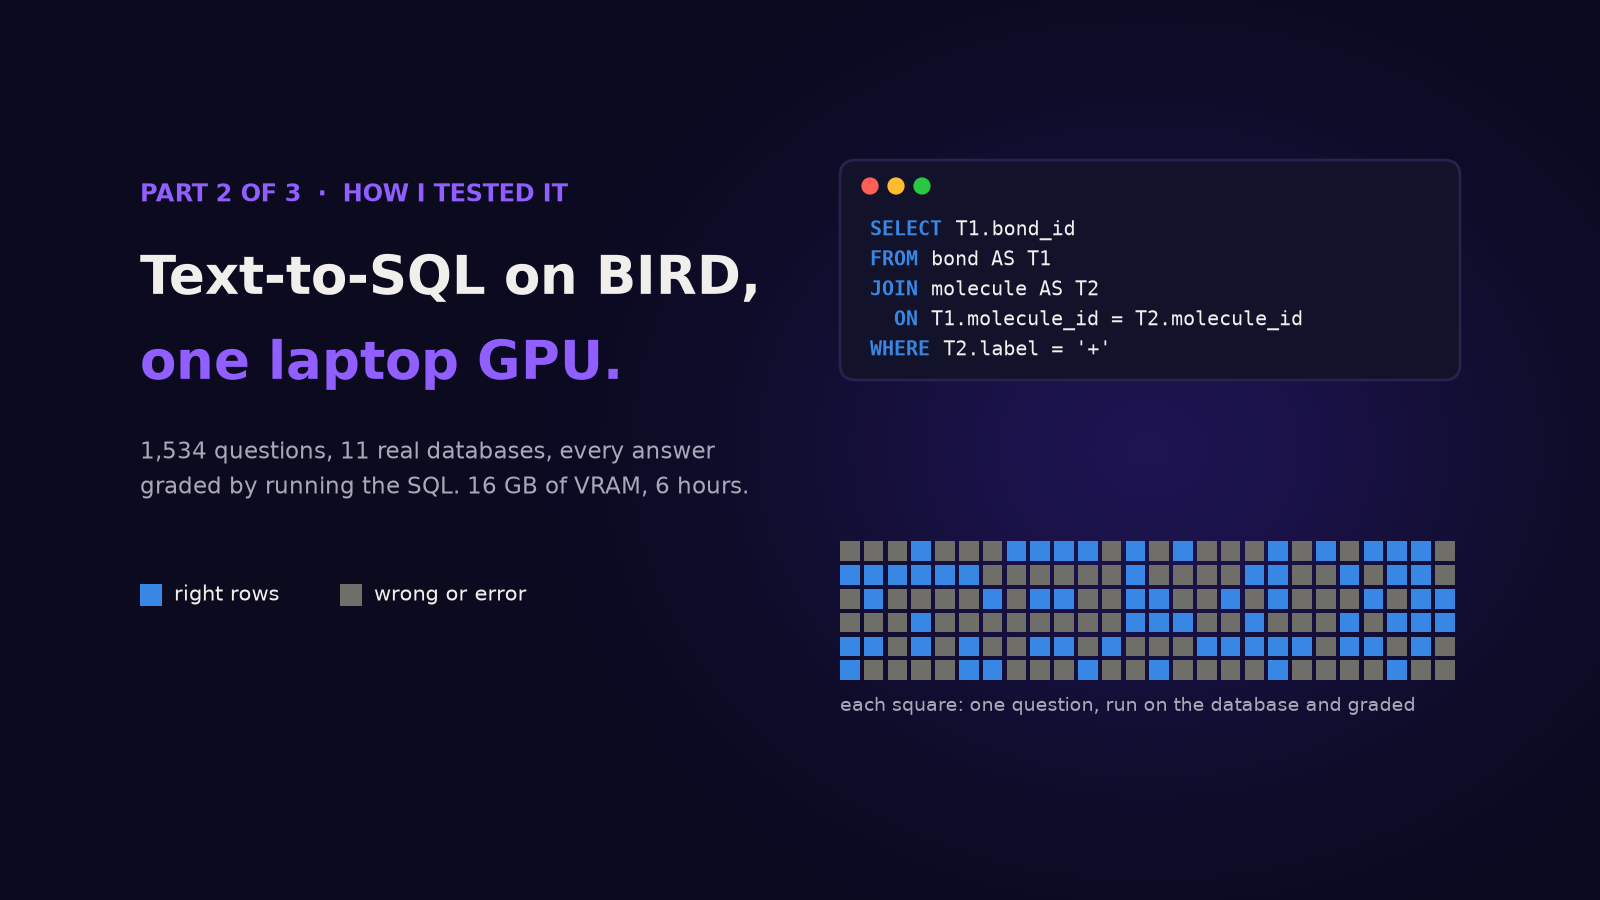
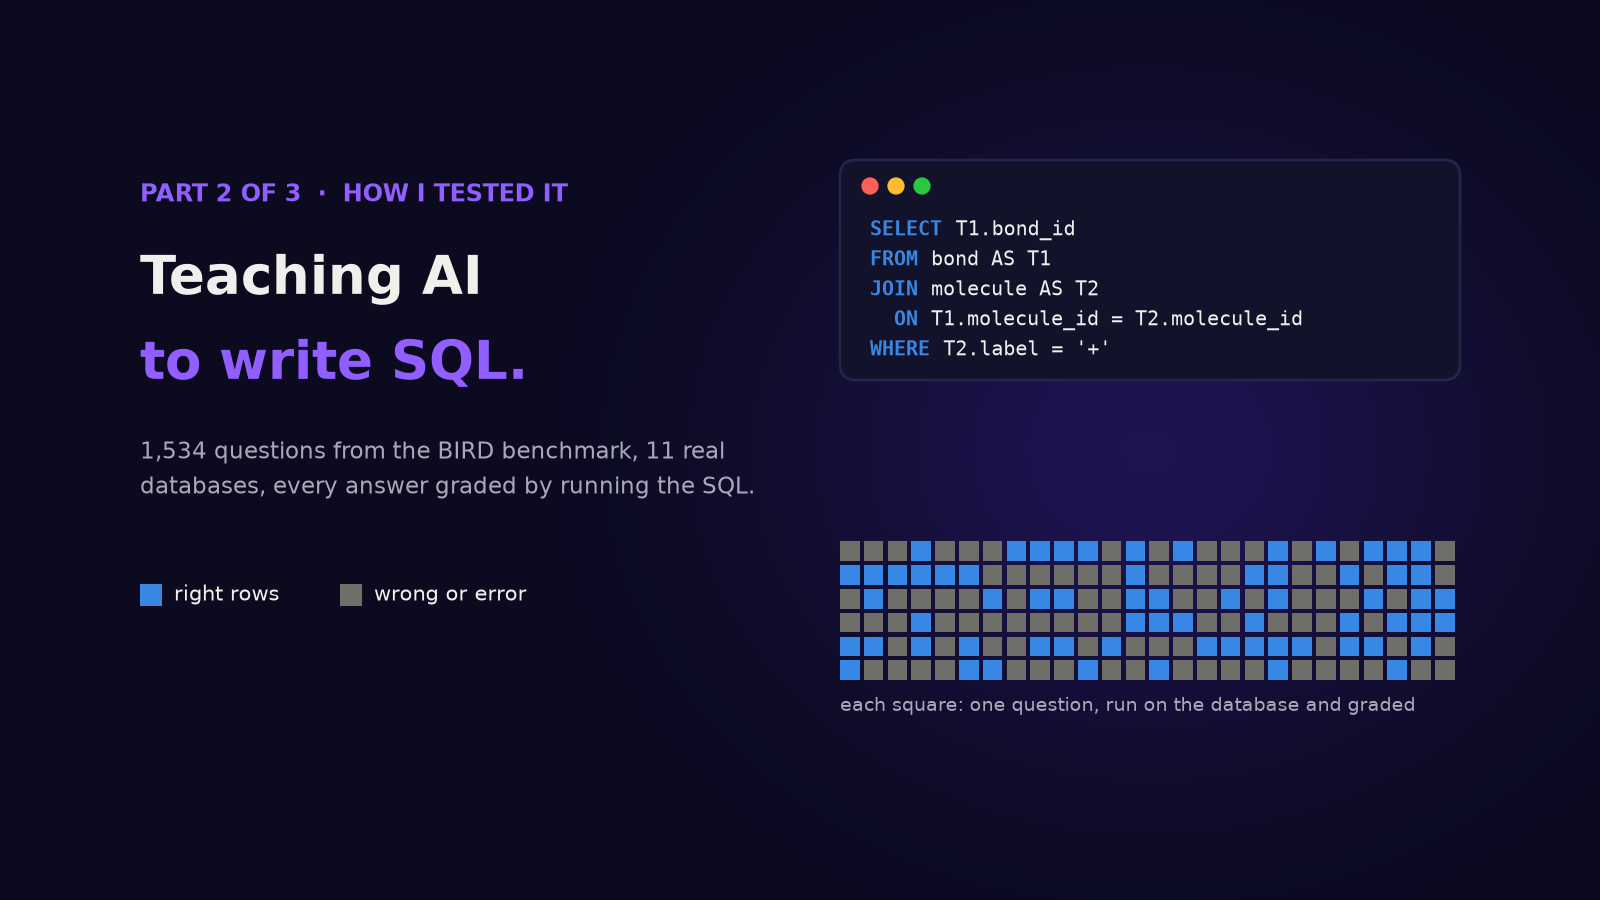
docs(blog): simplify fine-tuning series titles and drop laptop-GPU framing

Changed region(s): [[0.125, 0.28, 0.4688, 0.3422], [0.0938, 0.4667, 0.4688, 0.56], [0.0938, 0.3733, 0.375, 0.4356]]

diff --git a/frontend/src/constants/posts/finetuning_series_2_how.js b/frontend/src/constants/posts/finetuning_series_2_how.js
@@ -1,17 +1,17 @@
 const post = {
   id: "finetuning_series_2_how",
-  title: "How I tested them: text-to-SQL on BIRD with one laptop GPU",
+  title: "How I tested them: teaching AI to write SQL",
   date: "November 07, 2026",
   part: 2,
-  aiSummary: "Part 2 of the fine-tuning series walks through the full experiment: turning BIRD questions into prompts and training rows, grading SQL by running it in a read-only sandbox, and training full fine-tuning, LoRA, LoRA-FA, QLoRA and TinyLoRA under identical rules. It also covers the TinyLoRA GRPO loop with vLLM and the memory lessons that got the whole pipeline running in under 6 hours on a 16 GB laptop GPU.",
+  aiSummary: "Part 2 of the fine-tuning series walks through the full experiment: turning BIRD questions into prompts and training rows, grading SQL by running it in a read-only sandbox, and training full fine-tuning, LoRA, LoRA-FA, QLoRA and TinyLoRA under identical rules. It also covers the TinyLoRA GRPO loop with vLLM and the memory lessons that got the whole pipeline running in under 6 hours.",
   image: "blog/text2sql-peft/hero_part2.png",
   tags: ["Fine-tuning", "LoRA", "QLoRA", "TinyLoRA", "GRPO", "Text-to-SQL", "BIRD", "vLLM", "LLM"],
   type: 'Article',
   content: `
 <p><em>This is part 2 of 3. <a href='#/blog/finetuning_series_1_methods'>Part 1</a> explained the five fine-tuning methods. <a href='#/blog/finetuning_series_3_results'>Part 3</a> has the results.</em></p>
 <p><em>About 16 min read.</em></p>
-<blockquote><p><strong>In short</strong></p><ul><li>I tested all five methods on text-to-SQL (BIRD), grading each model by running its SQL and comparing the rows with the correct query's rows.</li><li>Every supervised run got the same 2,000 questions, 125 steps and loss only on the SQL; TinyLoRA also got a 75-step GRPO run with vLLM in the loop.</li><li>Memory was the hard part: on a 16 GB laptop GPU, overflow silently made jobs 10x slower, so a small scheduler ran one job at a time, about 6 hours in all.</li></ul></blockquote>
-<p><a href='#/blog/finetuning_series_1_methods'>Part 1</a> walked through the five methods from a viral infographic, ending with the claim that TinyLoRA can change a model's behavior by training only 13 numbers. To check it, I ran all five on one task, with one model, on one laptop GPU. This post is the "how". The code is simplified but does what the real code does.</p>
+<blockquote><p><strong>In short</strong></p><ul><li>I tested all five methods on text-to-SQL (BIRD), grading each model by running its SQL and comparing the rows with the correct query's rows.</li><li>Every supervised run got the same 2,000 questions, 125 steps and loss only on the SQL; TinyLoRA also got a 75-step GRPO run with vLLM in the loop.</li><li>Memory was the hard part: on a 16 GB GPU, overflow silently made jobs 10x slower, so a small scheduler ran one job at a time, about 6 hours in all.</li></ul></blockquote>
+<p><a href='#/blog/finetuning_series_1_methods'>Part 1</a> walked through the five methods from a viral infographic, ending with the claim that TinyLoRA can change a model's behavior by training only 13 numbers. To check it, I ran all five on one task with one model. This post is the "how". The code is simplified but does what the real code does.</p>
 
 <h3>The task: text-to-SQL</h3>
 <p>Text-to-SQL means: someone asks a question in plain English, the model writes a SQL query, and the database answers it.</p>
@@ -26,7 +26,7 @@ const post = {
 <h3>The setup at a glance</h3>
 <div style="overflow-x:auto;margin:1.9rem 0"><table><thead><tr><th>Piece</th><th>What I used</th></tr></thead><tbody>
 <tr><td>Model</td><td><code>Qwen/Qwen2.5-Coder-1.5B-Instruct</code>: 1.54 billion parameters, 28 layers, hidden size 1,536</td></tr>
-<tr><td>GPU</td><td>one NVIDIA RTX 3080 Ti Laptop GPU, 16 GB, running under WSL2 (Linux running inside Windows)</td></tr>
+<tr><td>GPU</td><td>NVIDIA RTX 3080 Ti, 16 GB, running under WSL2 (Linux running inside Windows)</td></tr>
 <tr><td>Benchmark</td><td><a href='https://bird-bench.github.io/' target='_blank' rel='noopener noreferrer'>BIRD</a> dev set (the cleaned 2024-06-27 release): 1,534 questions over 11 databases</td></tr>
 <tr><td>Training data</td><td>a fixed set of 2,000 questions from BIRD's training set</td></tr>
 <tr><td>Score</td><td>execution accuracy (EX): does the model's SQL return the same rows as the correct SQL?</td></tr>
@@ -345,9 +345,9 @@ conn.set_progress_handler(lambda: 1 if time.monotonic() &gt; deadline else 0, 10
 
 <h3>The GRPO run</h3>
 <p>The TinyLoRA paper says its 13 parameters work best with the reinforcement learning method <strong>GRPO</strong>, which <a href='#/blog/finetuning_series_1_methods'>part 1</a> explains step by step. Here is what running it looked like.</p>
-<div style="overflow-x:auto;margin:1.9rem 0"><svg xmlns="http://www.w3.org/2000/svg" viewBox="0 0 1000 474" style="width:100%;min-width:660px;height:auto;display:block" font-family="ui-sans-serif,system-ui,Helvetica,Arial,sans-serif" role="img" aria-label="One GRPO step, sharing one GPU">
+<div style="overflow-x:auto;margin:1.9rem 0"><svg xmlns="http://www.w3.org/2000/svg" viewBox="0 0 1000 474" style="width:100%;min-width:660px;height:auto;display:block" font-family="ui-sans-serif,system-ui,Helvetica,Arial,sans-serif" role="img" aria-label="One GRPO step">
   <rect width="1000" height="474" rx="14" fill="#FCFCFB" stroke="#E2E8F0" stroke-width="2"/>
-  <text x="28" y="40" font-size="19" font-weight="700" fill="#0b0b0b">One GRPO step, sharing one GPU</text>
+  <text x="28" y="40" font-size="19" font-weight="700" fill="#0b0b0b">One GRPO step</text>
   <text x="28" y="64" font-size="14" fill="#52514e">vLLM and the trainer take turns on the GPU. The SQL grading runs on the CPU.</text>
   <defs><marker id="ah" viewBox="0 0 10 10" refX="9" refY="5" markerWidth="8" markerHeight="8" orient="auto-start-reverse"><path d="M0,0 L10,5 L0,10 z" fill="#94a3b8"/></marker></defs>
   <rect x="20" y="132" width="960" height="96" rx="10" fill="#F8FAFC" stroke="#E2E8F0"/>
@@ -437,13 +437,13 @@ args = GRPOConfig(
 <p>Step 5 needed custom code. TRL can't push my custom TinyLoRA layers into vLLM, so I override one method that bakes <code>W'</code> into the 196 matrices and copies them over.</p>
 <p>In total: 75 steps, 600 questions, 4,800 graded answers, about 100 seconds per step, 128 minutes. The questions came from the 2,489 training questions whose prompt fits in 1,024 tokens (shuffled with seed 42), a different pool from the SFT runs, because GRPO needed shorter prompts.</p>
 
-<h3>Making it fit on one laptop GPU</h3>
+<h3>Making it fit in memory</h3>
 <p>I expected to press go and wait. Instead much of the work was finding out why things were slow, and every answer was about memory. Here is the diary.</p>
 <h4>The budget</h4>
 <p>The chart shows each job's memory two ways: PyTorch's peak (dark) and <strong>whole-card usage</strong> (light, which also counts memory libraries manage outside PyTorch). For GRPO only the PyTorch peak was logged, including vLLM's copy of the model.</p>
-<div style="overflow-x:auto;margin:1.9rem 0"><svg xmlns="http://www.w3.org/2000/svg" viewBox="0 0 1000 470" style="width:100%;min-width:660px;height:auto;display:block" font-family="ui-sans-serif,system-ui,Helvetica,Arial,sans-serif" role="img" aria-label="How much of the 16 GB card each job used">
+<div style="overflow-x:auto;margin:1.9rem 0"><svg xmlns="http://www.w3.org/2000/svg" viewBox="0 0 1000 470" style="width:100%;min-width:660px;height:auto;display:block" font-family="ui-sans-serif,system-ui,Helvetica,Arial,sans-serif" role="img" aria-label="How much GPU memory each job used">
   <rect width="1000" height="470" rx="14" fill="#FCFCFB" stroke="#E2E8F0" stroke-width="2"/>
-  <text x="28" y="40" font-size="19" font-weight="700" fill="#0b0b0b">How much of the 16 GB card each job used</text>
+  <text x="28" y="40" font-size="19" font-weight="700" fill="#0b0b0b">How much GPU memory each job used</text>
   <text x="28" y="64" font-size="14" fill="#52514e">Any single job fits easily. The trouble starts when two of them share the card.</text>
   <rect x="28" y="84" width="14" height="14" rx="3" fill="#2a78d6"/>
   <text x="48.0" y="96.0" font-size="13" fill="#0b0b0b" text-anchor="start" font-weight="400">PyTorch peak</text>

diff --git a/frontend/src/constants/posts/finetuning_series_3_results.js b/frontend/src/constants/posts/finetuning_series_3_results.js
@@ -1,6 +1,6 @@
 const post = {
   id: "finetuning_series_3_results",
-  title: "The results: what 13 parameters and 74 million parameters got me",
+  title: "The results: which fine-tuning method won?",
   date: "November 07, 2026",
   part: 3,
   aiSummary: "Part 3 of 3: the results of fine-tuning Qwen2.5-Coder-1.5B five ways on the BIRD text-to-SQL benchmark. LoRA and QLoRA lifted execution accuracy from 28.49% to about 42% (a gain McNemar's test says is not luck), full fine-tuning reached 36.11% with 92% of its 16-bit weights never changing, and TinyLoRA's 13 numbers mostly changed the answer format, scoring 30.44% with both SFT and GRPO. A bonus sixth method lets Claude Opus 5.5 edit 48,398 weights directly with no training: it removes the model's habit of explaining before answering and lands at 30.12%. Includes a coin-flip explanation of the significance test, real before/after SQL, costs, and honest caveats.",
@@ -478,9 +478,9 @@ save_edit("model.layers.27.mlp.down_proj.weight", W)</code></pre>
 <p>It landed in the same place as TinyLoRA (30.12% vs 30.44%), for the same reason: it fixed the shape of the answer, not the model's knowledge of the databases. The two are still different models; they disagree on 217 questions. It is also the story MIT tells. Their looping stopped 93% of answers from ever finishing, so removing it unlocked a lot. My model's rambling usually still ended with a SQL block, so removing it unlocked little. Editing weights by hand can remove an obstacle you can see. It could not teach the model which column lives in which table.</p>
 <h3>What it cost</h3>
 <p>Accuracy is half the story. The other half: memory, time, and what you store afterwards. <a href='#/blog/finetuning_series_2_how'>Part 2</a> explains where the memory and time go.</p>
-<div style="overflow-x:auto;margin:1.9rem 0"><svg xmlns="http://www.w3.org/2000/svg" viewBox="0 0 1000 400" style="width:100%;min-width:660px;height:auto;display:block" font-family="ui-sans-serif,system-ui,Helvetica,Arial,sans-serif" role="img" aria-label="What each run cost on one 16 GB laptop GPU">
+<div style="overflow-x:auto;margin:1.9rem 0"><svg xmlns="http://www.w3.org/2000/svg" viewBox="0 0 1000 400" style="width:100%;min-width:660px;height:auto;display:block" font-family="ui-sans-serif,system-ui,Helvetica,Arial,sans-serif" role="img" aria-label="What each run cost">
   <rect width="1000" height="400" rx="14" fill="#FCFCFB" stroke="#E2E8F0" stroke-width="2"/>
-  <text x="28" y="40" font-size="19" font-weight="700" fill="#0b0b0b">What each run cost on one 16 GB laptop GPU</text>
+  <text x="28" y="40" font-size="19" font-weight="700" fill="#0b0b0b">What each run cost</text>
   <text x="28" y="64" font-size="14" fill="#52514e">Peak GPU memory and wall-clock training time. GRPO also runs a second model copy to sample answers.</text>
   <text x="40.0" y="98.0" font-size="14" fill="#0b0b0b" text-anchor="start" font-weight="700">Peak GPU memory (GB)</text>
   <text x="180.0" y="131.0" font-size="13" fill="#0b0b0b" text-anchor="end" font-weight="400">Full fine-tune</text>
@@ -584,10 +584,10 @@ save_edit("model.layers.27.mlp.down_proj.weight", W)</code></pre>
 <li>Takehi, Teoh, Zhang and Khattab (MIT CSAIL) 2026, <a href='https://rikiyat.github.io/blog/weight-space-programming/' target='_blank' rel='noopener noreferrer'>Sparks of Weight-Space Programming</a>, the LLM weight-editing experiment</li>
 <li><a href='https://bird-bench.github.io/' target='_blank' rel='noopener noreferrer'>BIRD text-to-SQL benchmark</a></li>
 <li><a href='https://huggingface.co/Qwen/Qwen2.5-Coder-1.5B-Instruct' target='_blank' rel='noopener noreferrer'>Qwen2.5-Coder-1.5B-Instruct</a> on Hugging Face</li>
-<li>Part 1 of this series: <a href='#/blog/finetuning_series_1_methods'>Fine-tuning, explained: 5 ways to teach a model</a></li>
-<li>Part 2 of this series: <a href='#/blog/finetuning_series_2_how'>How I tested them: text-to-SQL on BIRD with one laptop GPU</a></li>
+<li>Part 1 of this series: <a href='#/blog/finetuning_series_1_methods'>Fine-tuning explained: 5 ways to teach an AI model</a></li>
+<li>Part 2 of this series: <a href='#/blog/finetuning_series_2_how'>How I tested them: teaching AI to write SQL</a></li>
 </ul>
-<p><strong>Previous:</strong> <a href='#/blog/finetuning_series_2_how'>Part 2: How I tested them</a>. Or start from the beginning with <a href='#/blog/finetuning_series_1_methods'>Part 1: Fine-tuning, explained</a>.</p>
+<p><strong>Previous:</strong> <a href='#/blog/finetuning_series_2_how'>Part 2: How I tested them</a>. Or start from the beginning with <a href='#/blog/finetuning_series_1_methods'>Part 1: Fine-tuning explained</a>.</p>
 
 `,
 };

diff --git a/frontend/src/constants/posts/finetuning_series_1_methods.js b/frontend/src/constants/posts/finetuning_series_1_methods.js
@@ -1,6 +1,6 @@
 const post = {
   id: "finetuning_series_1_methods",
-  title: "Fine-tuning, explained: 5 ways to teach a model",
+  title: "Fine-tuning explained: 5 ways to teach an AI model",
   date: "November 07, 2026",
   part: 1,
   aiSummary: "A beginner-friendly walk through what fine-tuning is (weights as grids of numbers, loss, gradients, and why training needs far more memory than the model itself), followed by full fine-tuning, LoRA, LoRA-FA, QLoRA and TinyLoRA, each with a hand-checkable toy example, a diagram and short Python code. It ends with the two ways to teach a model, SFT and RL, and a worked GRPO example, setting up the experiments in parts 2 and 3.",
@@ -14,7 +14,7 @@ const post = {
 
 <h3>The infographic that started this</h3>
 <p>A fine-tuning infographic has been going around LinkedIn. It shows five ways to fine-tune a language model: <strong>full fine-tuning, LoRA, LoRA-FA, QLoRA and TinyLoRA</strong>. For a 70B model it says LoRA trains about 1.2% of the parameters, LoRA-FA about 0.6%, and TinyLoRA only <strong>13 parameters</strong>. A footnote adds that TinyLoRA only works with reinforcement learning, and that supervised fine-tuning needs 100 to 1000 times more.</p>
-<p>Thirteen numbers changing how a model behaves? That sounded either brilliant or wrong, so I tried all five myself on one task, with one small model, on one laptop GPU.</p>
+<p>Thirteen numbers changing how a model behaves? That sounded either brilliant or wrong, so I tried all five myself on one task with one small model.</p>
 <p>This series has three parts:</p>
 <ul>
 <li><strong>Part 1 (this one):</strong> what fine-tuning is, and how each of the five methods works, with tiny examples you can check by hand and short code.</li>
@@ -186,7 +186,7 @@ new w      = w - 0.1 × gradient  = 0.5 - 0.1 × (-4) = 0.9</code></pre>
   <text x="500.9" y="247.0" font-size="13" fill="#0b0b0b" text-anchor="middle" font-weight="700">3.1 (8-bit)</text>
   <text x="562.2" y="247.0" font-size="14" fill="#0b0b0b" text-anchor="start" font-weight="700">6.2 GB on GPU</text>
   <line x1="770.0" y1="120.0" x2="770.0" y2="312.0" stroke="#0b0b0b" stroke-width="2" stroke-dasharray="6 5"/>
-  <text x="764.0" y="334.0" font-size="13" fill="#0b0b0b" text-anchor="end" font-weight="600">16 GB laptop GPU</text>
+  <text x="764.0" y="334.0" font-size="13" fill="#0b0b0b" text-anchor="end" font-weight="600">16 GB GPU</text>
   <text x="455.5" y="290.0" font-size="12.5" fill="#52514e" text-anchor="start" font-weight="400">8-bit Adam state lives in CPU RAM (paged)</text>
   <text x="28.0" y="334.0" font-size="12.5" fill="#52514e" text-anchor="start" font-weight="400">Counts for 1.54B parameters. Activations not shown.</text>
 </svg></div>
@@ -880,7 +880,7 @@ save_edit("model.layers.27.mlp.down_proj.weight", W)</code></pre>
 <li><strong>KL penalty</strong>: a cost for drifting from the original model; not used here.</li>
 </ul>
 
-<p><strong>Next:</strong> <a href='#/blog/finetuning_series_2_how'>Part 2: How I tested them: text-to-SQL on BIRD with one laptop GPU</a>. It covers the task, the grader, running model-written SQL safely, and the exact training setup for all five methods.</p>
+<p><strong>Next:</strong> <a href='#/blog/finetuning_series_2_how'>Part 2: How I tested them: teaching AI to write SQL</a>. It covers the task, the grader, running model-written SQL safely, and the exact training setup for all five methods.</p>
 
 `,
 };

diff --git a/frontend/src/constants/index.js b/frontend/src/constants/index.js
@@ -263,7 +263,7 @@ const projects = [
     name: "text2sql-peft: Six Ways to Fine-Tune",
     category: "AI/ML",
     description:
-      "Compared six ways to adapt Qwen2.5-Coder-1.5B for text-to-SQL on the BIRD benchmark, all on one 16 GB laptop GPU: full fine-tuning, LoRA, LoRA-FA, QLoRA, TinyLoRA with SFT and GRPO, and Claude Opus 5.5 editing the weights directly. QLoRA and LoRA lifted execution accuracy from 28.5% to about 42%; 13-parameter TinyLoRA and the LLM's hand edit fixed answer format but gained only about 2 points.",
+      "Compared six ways to adapt Qwen2.5-Coder-1.5B for text-to-SQL on the BIRD benchmark: full fine-tuning, LoRA, LoRA-FA, QLoRA, TinyLoRA with SFT and GRPO, and Claude Opus 5.5 editing the weights directly. QLoRA and LoRA lifted execution accuracy from 28.5% to about 42%; 13-parameter TinyLoRA and the LLM's hand edit fixed answer format but gained only about 2 points.",
     tags: [
       { name: "lora", color: "blue-text-gradient" },
       { name: "grpo", color: "green-text-gradient" },
